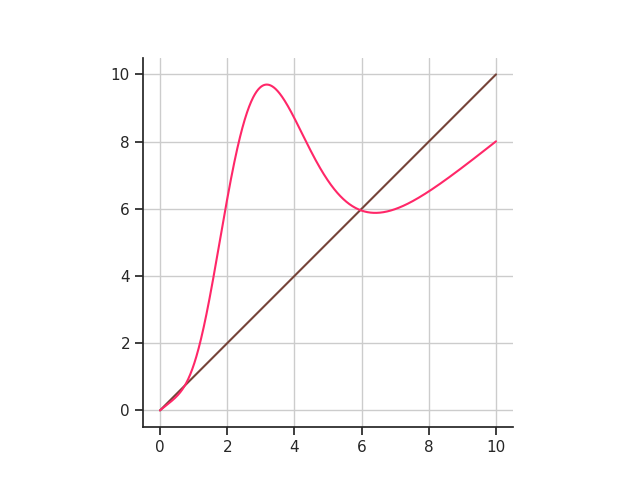
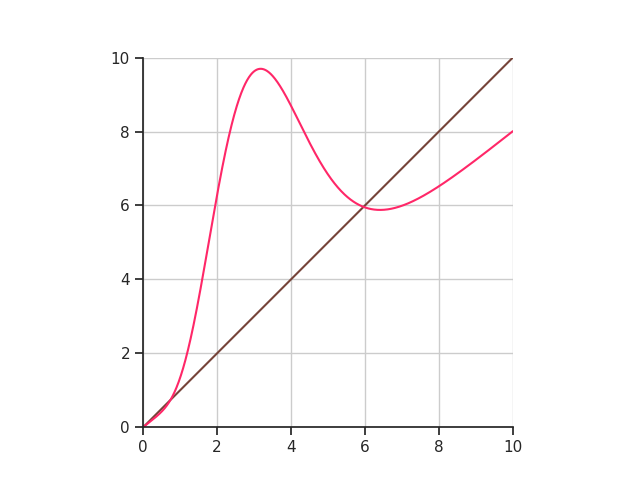
corrected region adjustment functionality

diff --git a/model.py b/model.py
@@ -48,6 +48,8 @@ def plot(m, x_range, y_range, filename=None):
     ax.set_aspect("equal")
     ax.grid(True, which="both")
     seaborn.despine(ax=ax, offset=0)
+    plt.ylim(y_range[0], y_range[1])
+    plt.xlim(x_range[0], x_range[1])
     plt.show()
     fig.savefig("figures/" + filename)
 
